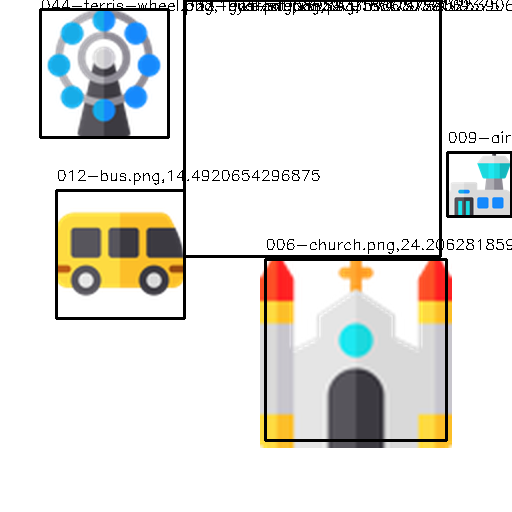
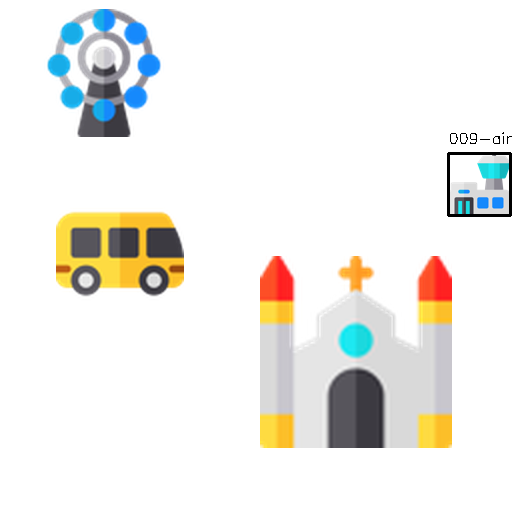
Fix annotation loading task2

diff --git a/task2funcs.py b/task2funcs.py
@@ -16,9 +16,9 @@ def load_images(dir):
     return images
 
 
-# loads list of annotations given relative dir filepath
+# loads map of annotations given relative dir filepath
 def load_annotations(dir):
-        annotations = []
+        annotations = {}
         annotationPaths = os.listdir(dir)
         # Total number of icons, used for calculating accuracy
         numIcons = 0
@@ -34,7 +34,7 @@ def load_annotations(dir):
             numIcons += len(annotation)
             file.close()
 
-            annotations.append(annotation)
+            annotations[annotationPaths[i].split('.')[0]] = annotation
         return annotations, numIcons
 
 
@@ -236,7 +236,7 @@ def plot_results(images, annotations, numIcons, results, outputDir):
     images = [images for images in images if images[0] in results]
     for i in range(len(images)):
         name, image = images[i]
-        annotation = annotations[i]
+        annotation = annotations[name.split('.')[0]]
 
         # print("\nDisplaying", name)
 

diff --git a/task2.py b/task2.py
@@ -3,7 +3,7 @@ import math
 import time
 
 SCALE = 1 / math.sqrt(2)
-SPEED_SCALES = 6
+SPEED_SCALES = 8
 ICON_ROTATIONS = 1
 ICON_START_SCALE = 2
 ICON_SCALES = 5
